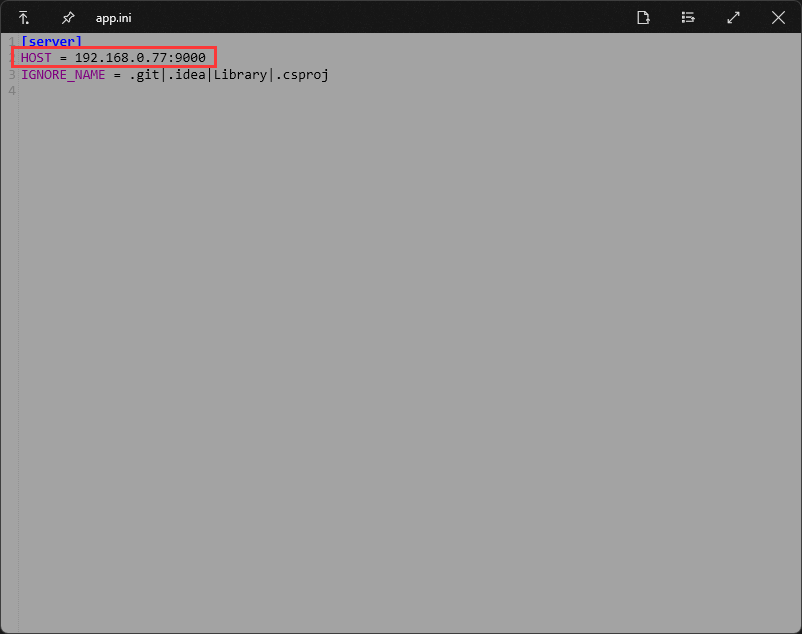
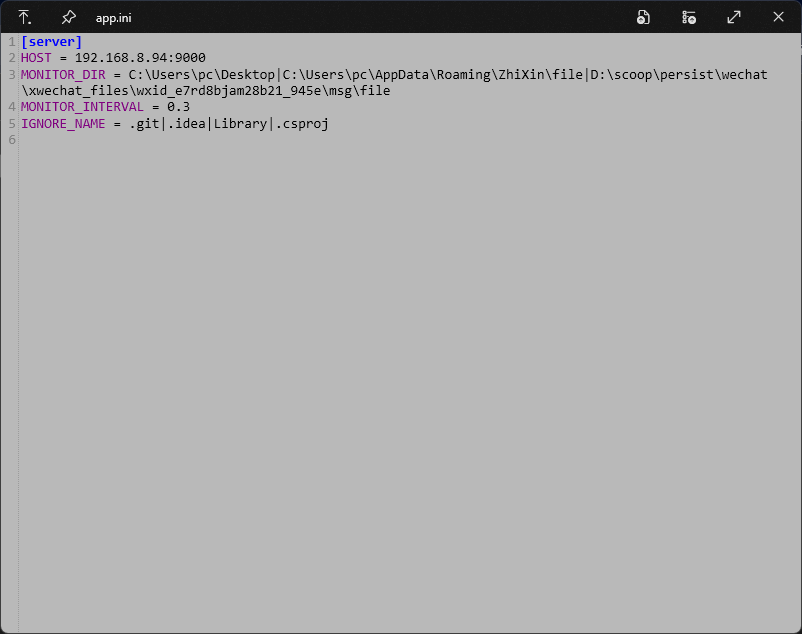
readme

diff --git a/README.md b/README.md
@@ -3,14 +3,22 @@
 **确保在当前的公司环境下，使用[此程序](https://github.com/zhang00lei/YiSaiTongUnlock)可以正常使用**  
 **注：此工具用于在能够正常打开加密文件的情境下使用，简而言之，就是省去了解密申请的步骤。各公司亿赛通加密策略不同，本程序可能不适用于所有策略，可根据实际情况进行修改**
 ## 服务端部署
-服务端需windows操作系统，并且安装了亿赛通应用程序。解压[亿赛通解锁.zip](https://github.com/zhang00lei/YSTRemoteUnlock/releases/tag/1.0.0)，将remote-unlock目录放置在服务端，并配置conf/app.ini中相关信息，如下：
+服务端需windows操作系统，并且安装了亿赛通应用程序。解压RemoteUnlockServer.rar，将remote-unlock目录放置在服务端，并配置conf/app.ini中相关信息(如端口，解密文件路径)，如下：
 ![alt text](image.png)  
-然后双击启动RemoteUnlockServer.exe即可。
+然后双击启动即可。
 ## 客户端  
-在卸载完成的机器中，解压[亿赛通解锁.zip](https://github.com/zhang00lei/YSTRemoteUnlock/releases/tag/1.0.0)，双击安装RemoteUnlock.exe，完成后在安装位置修改conf/app.ini文件，修改对应的服务端信息
+在卸载完成的机器中，双击安装RemoteUnlockClient.exe，完成后在安装位置修改conf/app.ini文件，修改对应信息  
+```powershell
+HOST：服务端ip、端口  
+MONITOR_DIR：需要监控的目录  
+MONITOR_INTERVAL：监控时间间隔  
+IGNORE_NAME：忽略的解密目录
+```
 ![alt text](image-1.png)
 ## 使用
 在客户端，选中文件或目录，右键RemoteUnlock即可完成解密。
-
+## 已知问题  
+1. 大文件解密可能存在服务端内存溢出问题
+2. 监控程序CPU占用过高
 # 免责声明  
 本软件的任何使用仅用于非营利性的教育和测试目的。
